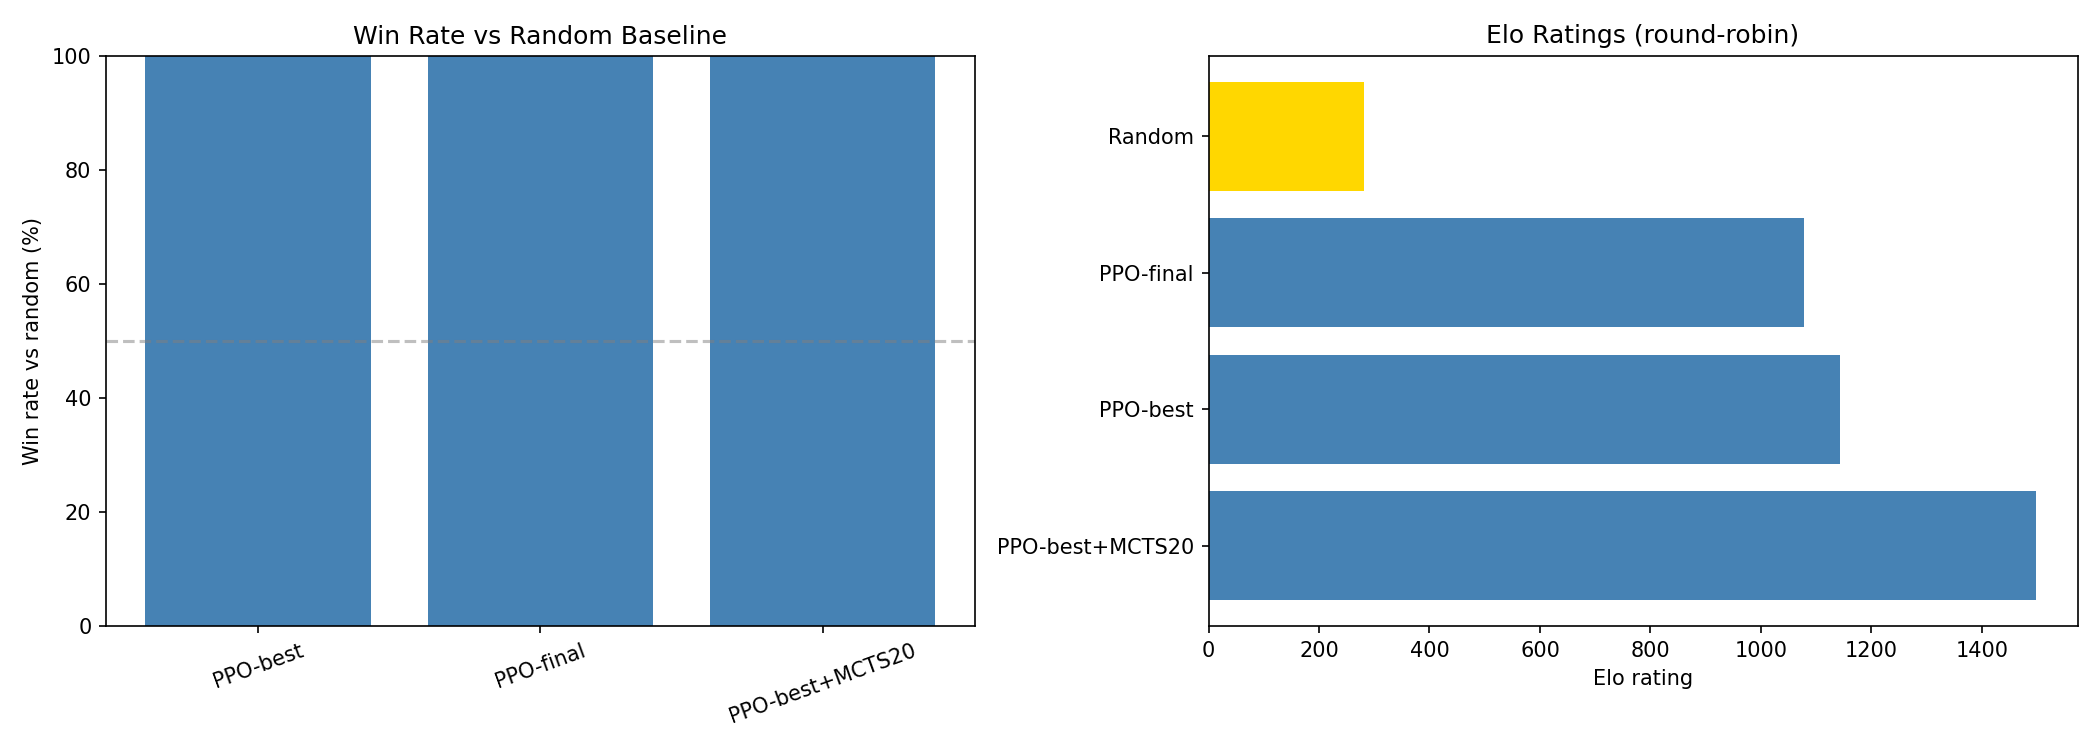
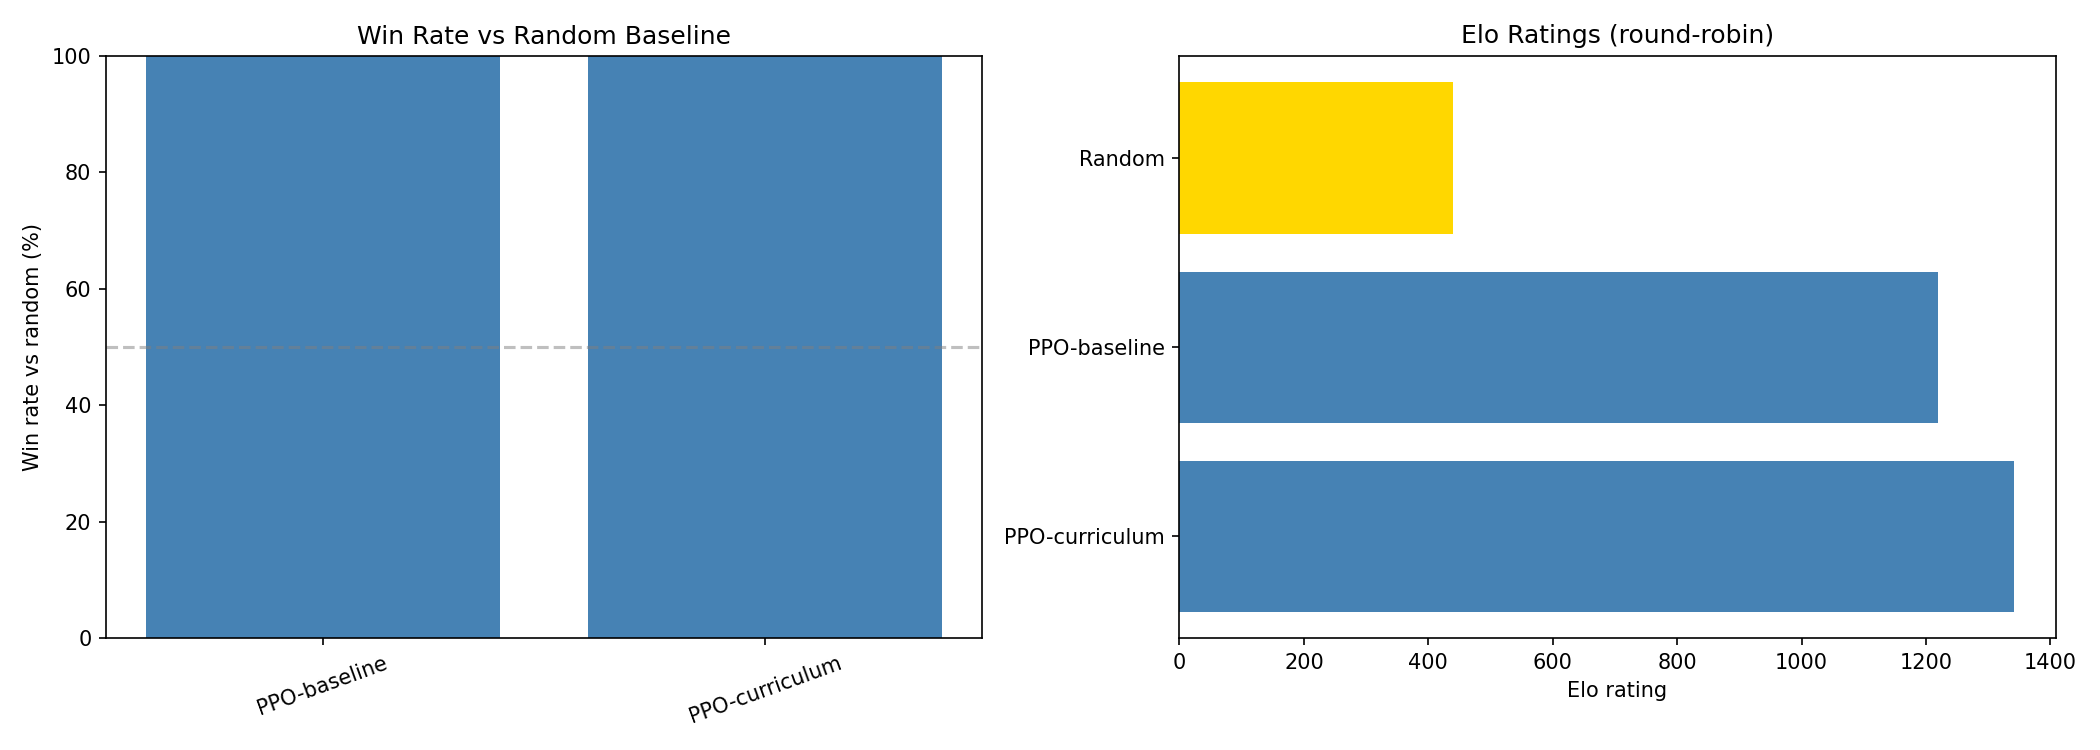
alpha_zero

diff --git a/super_tictactoe/alphazero_train.py b/super_tictactoe/alphazero_train.py
@@ -2,6 +2,7 @@ import os
 import numpy as np
 import torch
 import torch.nn.functional as F
+import torch.multiprocessing as mp
 from collections import deque
 from super_tictactoe.model import ActorCritic
 from super_tictactoe.env import SuperTicTacToeEnv
@@ -17,6 +18,23 @@ def curriculum_rate(step: int, total: int) -> float:
         return 0.8   # Phase 2: mild stochasticity
     else:
         return 0.5   # Phase 3: full stochasticity
+
+
+def _self_play_worker(args):
+    """
+    Top-level worker for parallel self-play (must be module-level to be picklable).
+    Each worker runs on its own GPU and returns a list of (training_data, winner).
+    """
+    cpu_state_dict, n_games, num_simulations, temp_threshold, success_rate, device_str = args
+    model = ActorCritic().to(device_str)
+    model.load_state_dict({k: v.to(device_str) for k, v in cpu_state_dict.items()})
+    model.eval()
+    mcts = MCTS(model, device=device_str, num_simulations=num_simulations)
+    results = []
+    for _ in range(n_games):
+        data, winner = self_play_game(mcts, temp_threshold=temp_threshold, success_rate=success_rate)
+        results.append((data, winner))
+    return results
 
 
 def self_play_game(mcts, temp_threshold=15, success_rate=0.5):
@@ -115,21 +133,50 @@ def train_alphazero(
     best_vs_reference = 0.0
     best_path = os.path.join(checkpoint_dir, 'model_best.pt')
 
+    # Multi-GPU parallel self-play: each GPU runs its own MCTS worker
+    n_gpus = torch.cuda.device_count() if device == 'cuda' else 0
+    if n_gpus > 1:
+        print(f"Using {n_gpus} GPUs for parallel self-play")
+        ctx = mp.get_context('spawn')
+        pool = ctx.Pool(n_gpus)
+    else:
+        pool = None
+
     for iteration in range(1, num_iterations + 1):
         # ── Self-play ────────────────────────────────────────────────────────
         rate = curriculum_rate(iteration, num_iterations) if curriculum else 0.5
         model.eval()
         p1_wins = p2_wins = draws = 0
-        for g in range(games_per_iteration):
-            data, winner = self_play_game(mcts, temp_threshold=15, success_rate=rate)
+
+        if pool is not None:
+            # Distribute games evenly across GPUs
+            base = games_per_iteration // n_gpus
+            rem  = games_per_iteration % n_gpus
+            cpu_sd = {k: v.cpu() for k, v in model.state_dict().items()}
+            worker_args = [
+                (cpu_sd, base + (1 if i < rem else 0),
+                 num_simulations, 15, rate, f'cuda:{i}')
+                for i in range(n_gpus)
+            ]
+            print(f"Iter {iteration:4d}/{num_iterations} | self-play ({n_gpus} GPUs)...",
+                  end='\r', flush=True)
+            raw = pool.map(_self_play_worker, worker_args)
+            game_results = [item for sublist in raw for item in sublist]
+        else:
+            game_results = []
+            for g in range(games_per_iteration):
+                data, winner = self_play_game(mcts, temp_threshold=15, success_rate=rate)
+                game_results.append((data, winner))
+                print(f"Iter {iteration:4d}/{num_iterations} | "
+                      f"game {g+1:3d}/{games_per_iteration} | "
+                      f"buffer={len(replay_buffer)}",
+                      end='\r', flush=True)
+
+        for data, winner in game_results:
             replay_buffer.extend(data)
             if winner == 1:   p1_wins += 1
             elif winner == 2: p2_wins += 1
             else:             draws   += 1
-            print(f"Iter {iteration:4d}/{num_iterations} | "
-                  f"game {g+1:3d}/{games_per_iteration} | "
-                  f"buffer={len(replay_buffer)}",
-                  end='\r', flush=True)
 
         n = games_per_iteration
         print(f"Iter {iteration:4d}/{num_iterations} | "
@@ -177,6 +224,10 @@ def train_alphazero(
                 print("  ← new best!")
             else:
                 print()
+
+    if pool is not None:
+        pool.close()
+        pool.join()
 
     final_path = os.path.join(checkpoint_dir, 'model_final.pt')
     torch.save(model.state_dict(), final_path)

diff --git a/compare.py b/compare.py
@@ -102,22 +102,20 @@ def main():
     # Discover available models
     agents_cfg = []
 
-    if os.path.exists('checkpoints/model_best.pt'):
-        agents_cfg.append(('PPO-best',   load('checkpoints/model_best.pt'),  False))
     if os.path.exists('checkpoints/model_final.pt'):
-        agents_cfg.append(('PPO-final',  load('checkpoints/model_final.pt'), False))
+        agents_cfg.append(('PPO-baseline',    load('checkpoints/model_final.pt'),        False))
+    if os.path.exists('checkpoints_ppo_cl/model_final.pt'):
+        agents_cfg.append(('PPO-curriculum',  load('checkpoints_ppo_cl/model_final.pt'), False))
     if os.path.exists('checkpoints_az/model_best.pt'):
-        agents_cfg.append(('AZ-best',    load('checkpoints_az/model_best.pt'), False))
+        agents_cfg.append(('AZ-best',         load('checkpoints_az/model_best.pt'),      False))
     if os.path.exists('checkpoints_az/model_final.pt'):
-        agents_cfg.append(('AZ-final',   load('checkpoints_az/model_final.pt'), False))
+        agents_cfg.append(('AZ-final',        load('checkpoints_az/model_final.pt'),     False))
+    if os.path.exists('checkpoints_az_cl/model_best.pt'):
+        agents_cfg.append(('AZ-curriculum',   load('checkpoints_az_cl/model_best.pt'),   False))
 
     if not agents_cfg:
         print("No checkpoints found.")
         return
-
-    # Add MCTS-enhanced version of best available model
-    best_model = agents_cfg[0][1]
-    agents_cfg.append(('PPO-best+MCTS20', best_model, True))
 
     print(f"Agents: {[a[0] for a in agents_cfg]}")
     print(f"Games per matchup: {N_GAMES}\n")
